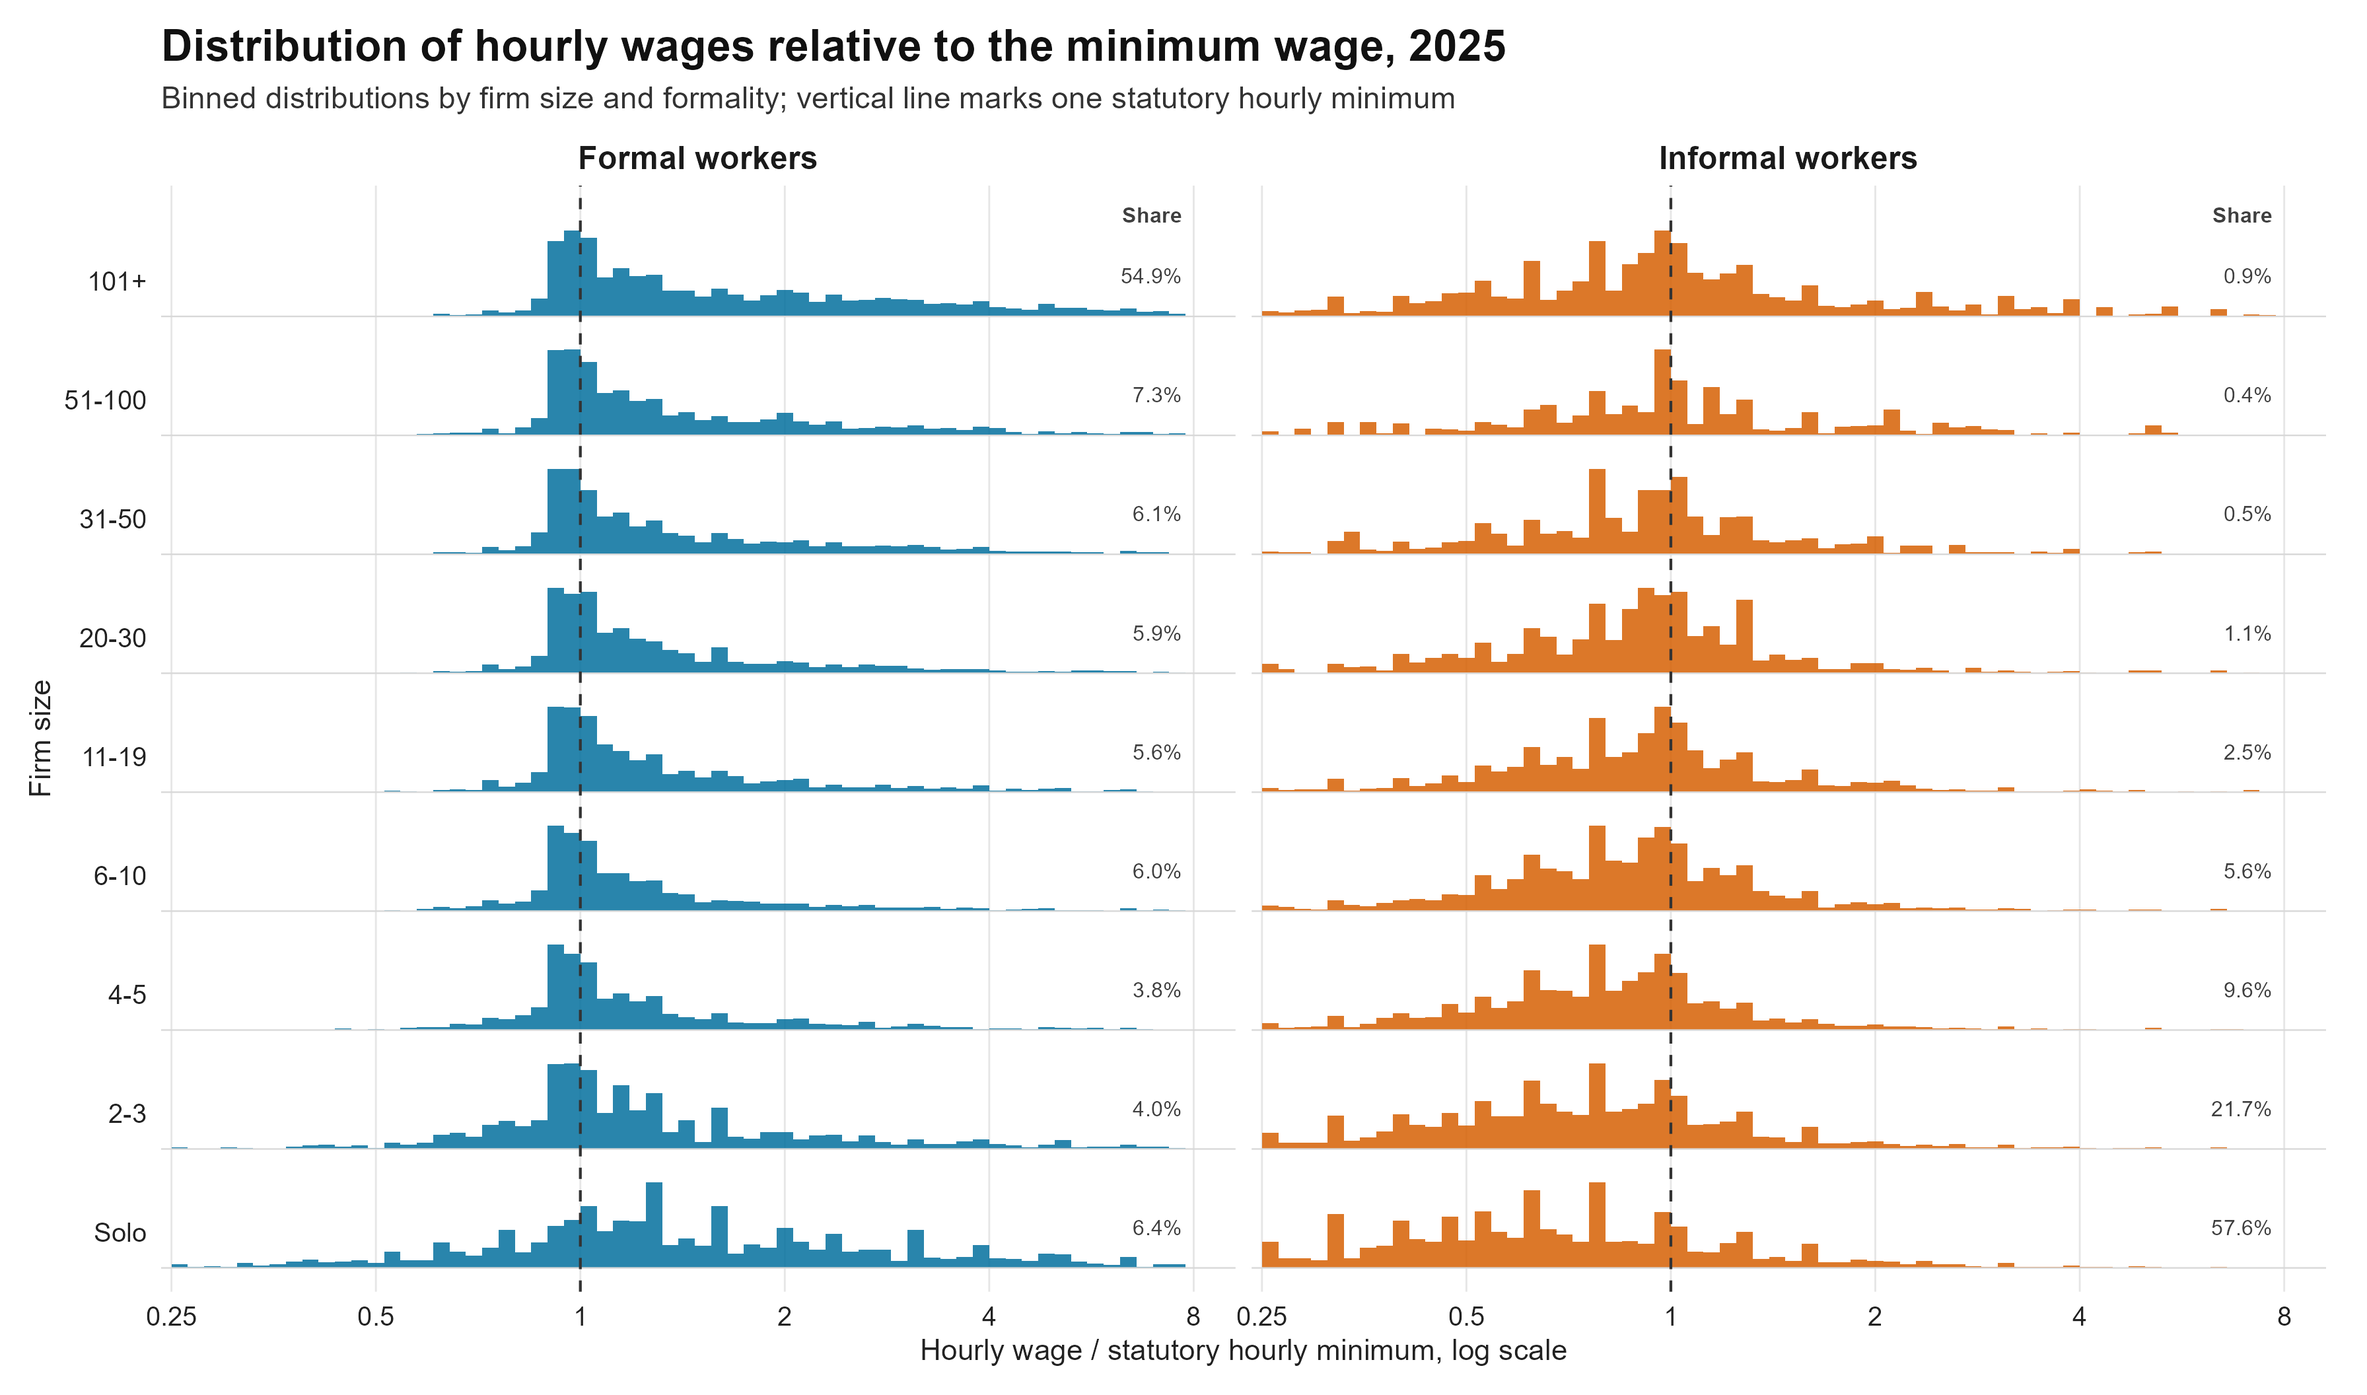
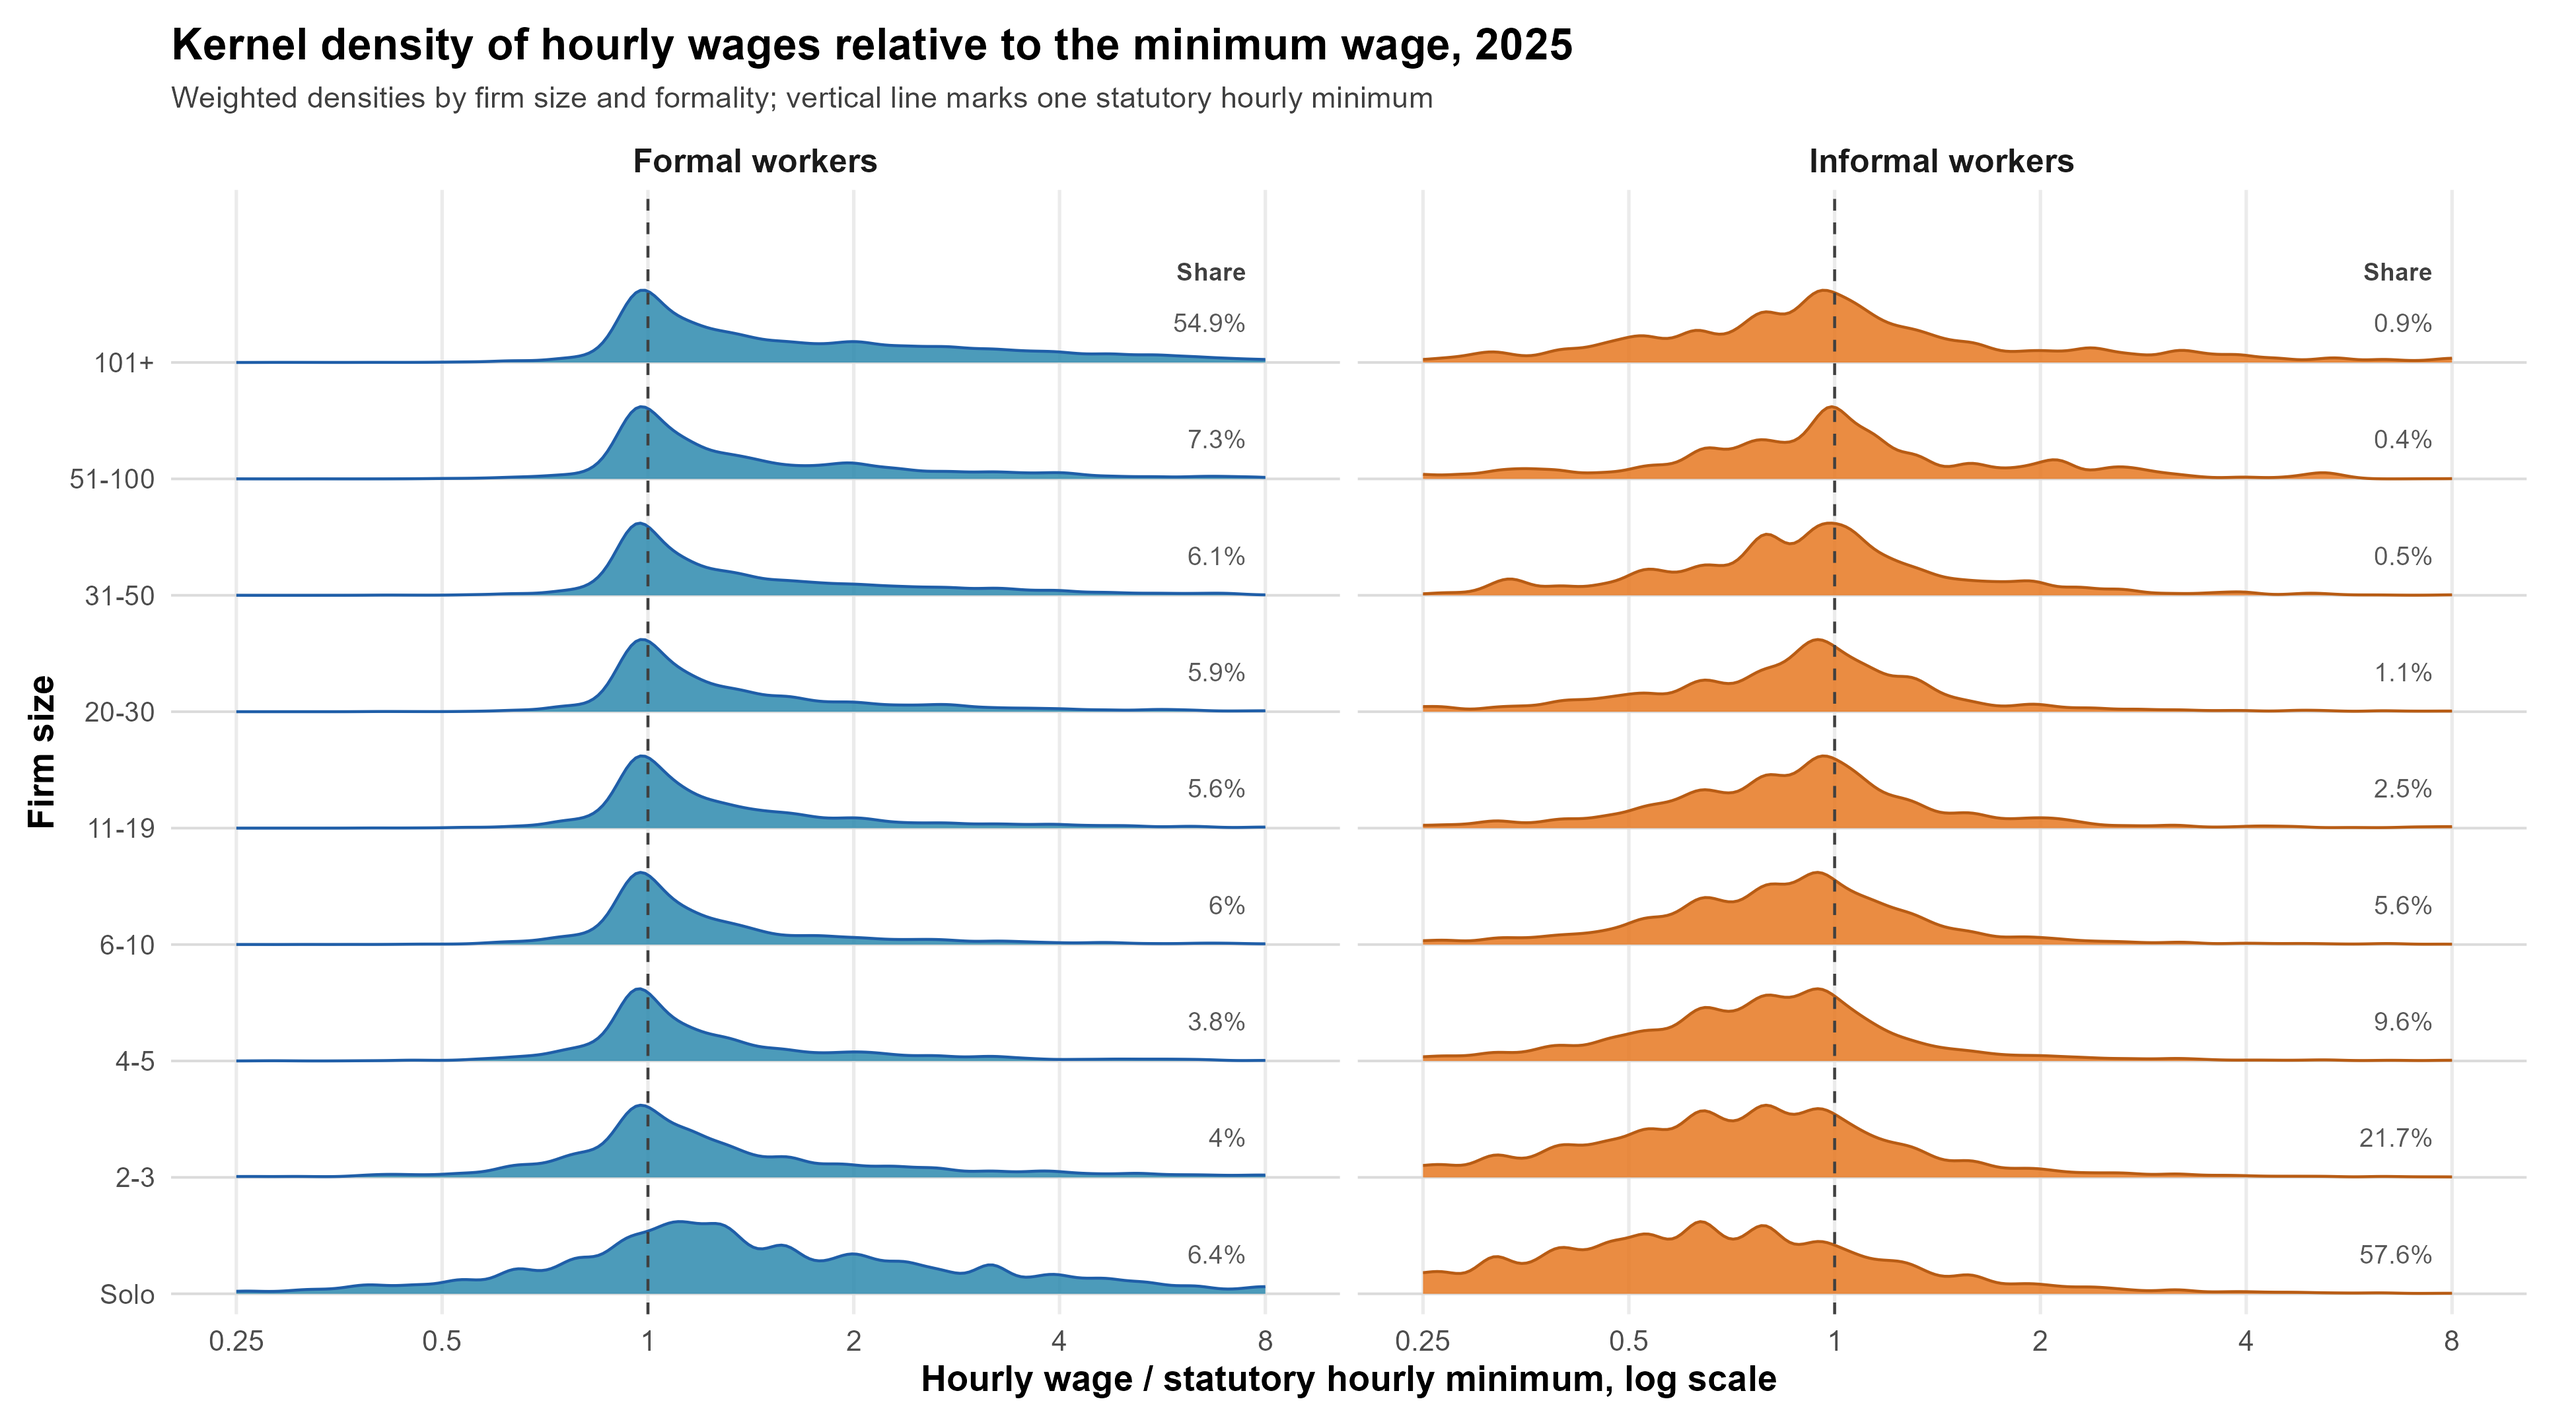
Use kernel density for minimum wage distribution

diff --git a/Paper/sections/descriptive_statistics.tex b/Paper/sections/descriptive_statistics.tex
@@ -50,12 +50,12 @@ Figure~\ref{fig:income-formality-comparison} looks at the firm-size wage premium
 
 \input{Paper/sections/descriptive_formal_worker_profile_2025_table}
 
-Figure~\ref{fig:minwage-distribution-formality-size} shifts from mean wages to the distribution of hourly wages relative to the statutory hourly minimum in 2025. The vertical line marks one minimum wage, and the labels on the right report each firm-size category's employment share within the corresponding formality group. Among formal workers, the categories from 4--5 to 51--100 workers are visibly concentrated around one minimum wage. Appendix Table~\ref{tab:minimum-wage-bunching-2025} quantifies this pattern: between 36.9 and 42.7 percent of formal workers in these categories earn between 0.9 and 1.1 hourly minimum wages. Formal solo workers and formal workers in 101+ firms have wider upper tails, with 75th percentiles of 2.37 and 2.59 hourly minimum wages, respectively. Among informal workers, the distribution is shifted downward: 73.5 percent of solo workers and 65.9 percent of workers in firms with 2--3 workers earn less than 0.9 hourly minimum wages. This evidence helps interpret the flatter formal-sector profile: the minimum wage appears as a visible compression benchmark in formal wage setting, while informal employment contains much more mass below that benchmark.
+Figure~\ref{fig:minwage-distribution-formality-size} shifts from mean wages to smoothed kernel densities of hourly wages relative to the statutory hourly minimum in 2025. The vertical line marks one minimum wage, and the labels on the right report each firm-size category's employment share within the corresponding formality group. Among formal workers, the categories from 4--5 to 51--100 workers are visibly concentrated around one minimum wage. Appendix Table~\ref{tab:minimum-wage-bunching-2025} quantifies this pattern: between 36.9 and 42.7 percent of formal workers in these categories earn between 0.9 and 1.1 hourly minimum wages. Formal solo workers and formal workers in 101+ firms have wider upper tails, with 75th percentiles of 2.37 and 2.59 hourly minimum wages, respectively. Among informal workers, the distribution is shifted downward: 73.5 percent of solo workers and 65.9 percent of workers in firms with 2--3 workers earn less than 0.9 hourly minimum wages. This evidence helps interpret the flatter formal-sector profile: the minimum wage appears as a visible compression benchmark in formal wage setting, while informal employment contains much more mass below that benchmark.
 
 \begin{figure}[!htbp]
   \centering
   \includegraphics[width=\textwidth]{fig77_\figurelang.png}
-  \caption{Distribution of hourly wages relative to the statutory hourly minimum by firm size and formality status, 2025}
+  \caption{Kernel density of hourly wages relative to the statutory hourly minimum by firm size and formality status, 2025}
   \label{fig:minwage-distribution-formality-size}
 \end{figure}
 
